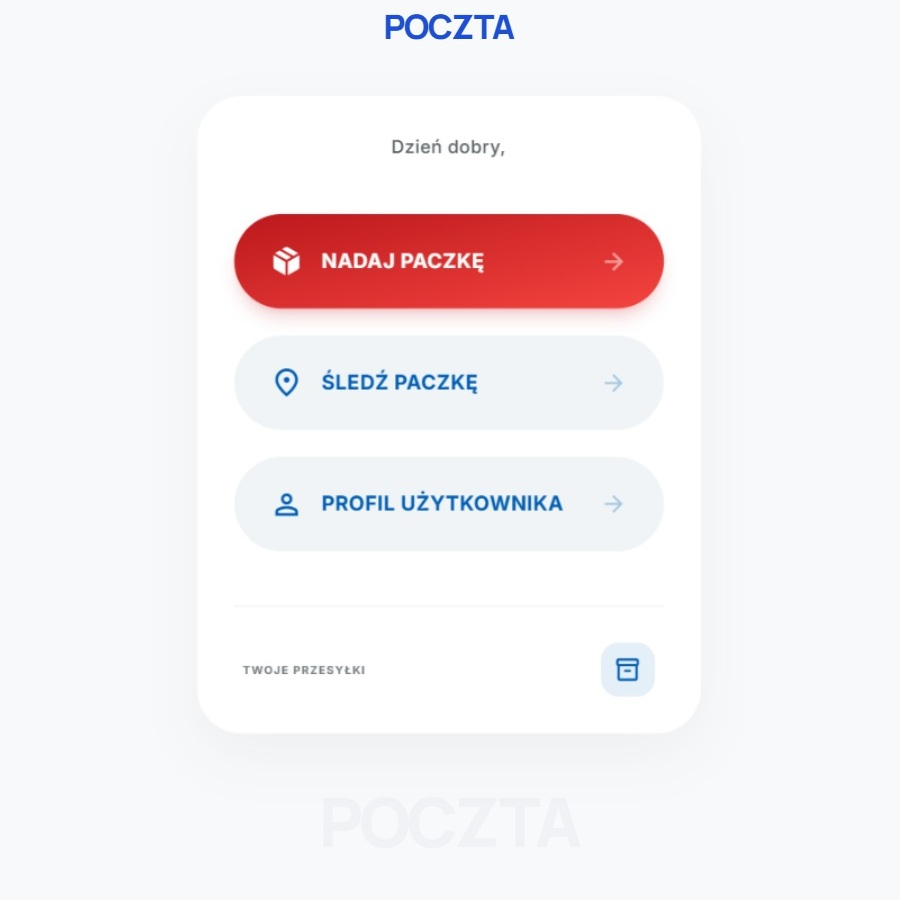
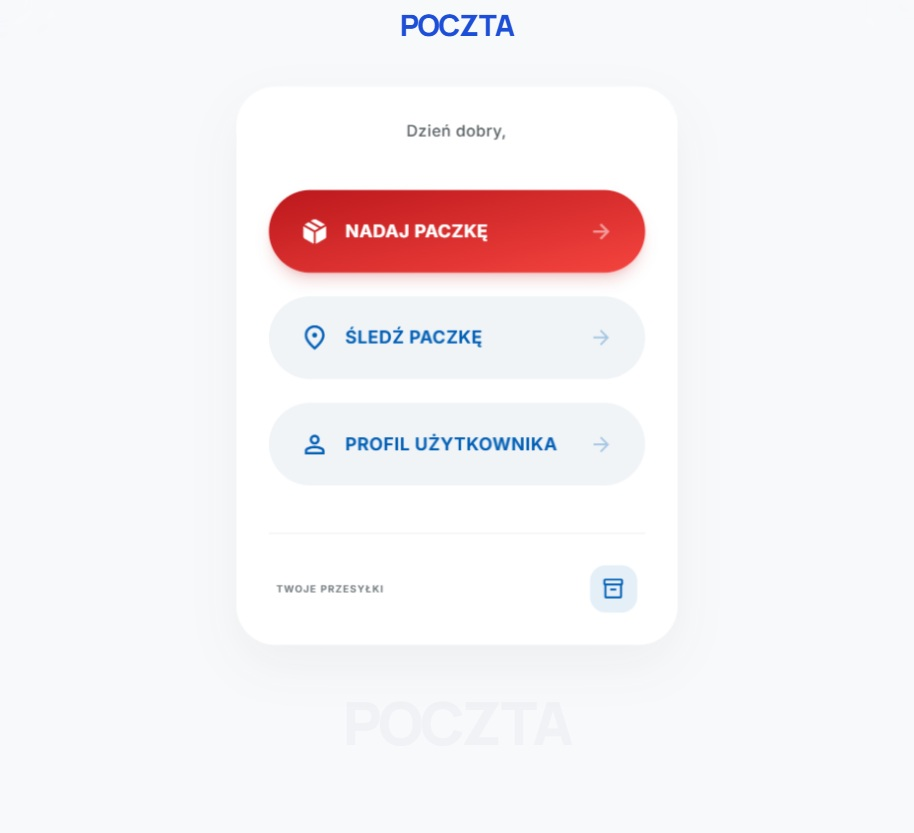
gui: logowanie,rejestracja i menu główne

diff --git a/src/GUI/MenuWindow.java b/src/GUI/MenuWindow.java
@@ -15,24 +15,65 @@ public class MenuWindow extends JFrame{
     setResizable(false);
 
         ImageIcon tlo =new ImageIcon("src/resources/menu.jpg");
+        ImageIcon nadaj =new ImageIcon("src/resources/nadaj2.jpg");
+        ImageIcon sledz =new ImageIcon("src/resources/sledz2.jpg");
+        ImageIcon profil =new ImageIcon("src/resources/profil2.jpg");
+        ImageIcon maly =new ImageIcon("src/resources/maly2.jpg");
+
         JLabel background = new JLabel(tlo);
-        background.setBounds(-50,0,900,900);
+        JLabel sendPackButton2 = new JLabel(nadaj);
+        JLabel followButton2 = new JLabel(sledz);
+        JLabel profileButton2 = new JLabel(profil);
+        JLabel packsButton2 = new JLabel(maly);
+
+
+
+
+
+        background.setBounds(0, 0, 800, 820);
         background.setLayout(null);
         background.setVisible(true);
-        background.addMouseListener(new java.awt.event.MouseAdapter() {  // <----- listener
+        background.addMouseListener(new java.awt.event.MouseAdapter() {
             public void mouseClicked(java.awt.event.MouseEvent e) {
                 System.out.println("X: " + e.getX() + " Y: " + e.getY());
             }
         });
         add(background);
-//przycisk wyslij paczke
+
+        background.add(sendPackButton2);
+        background.add(followButton2);
+        background.add(profileButton2);
+        background.add(packsButton2);
+
+        sendPackButton2.setVisible(false);
+        followButton2.setVisible(false);
+        profileButton2.setVisible(false);
+        packsButton2.setVisible(false);
+
+
+
+
+        //przycisk wyslij paczke
         JButton sendPackButton = new JButton("");
-        sendPackButton.setBounds(235, 215, 430, 95);
+        sendPackButton.setBounds(212, 184, 377, 84);
+        sendPackButton2.setBounds(193, 177, 410, 100);
+        sendPackButton.addMouseListener(new java.awt.event.MouseAdapter() {
+            public void mouseEntered(java.awt.event.MouseEvent evt) {
+                sendPackButton.setOpaque(false);
+                sendPackButton2.setVisible(true);
+            }
+
+            public void mouseExited(java.awt.event.MouseEvent evt) {
+                sendPackButton2.setVisible(false);
+            }
+        });
+
         sendPackButton.addActionListener(e -> {
             System.out.println("Kliknieto nadaj");
             SendPack.setVisible(true);
 
         });
+
         sendPackButton.setBorder(null);
         sendPackButton.setOpaque(false);
         background.add(sendPackButton);
@@ -41,7 +82,18 @@ public class MenuWindow extends JFrame{
 
         //przycisk sledz
         JButton followButton = new JButton("");
-        followButton.setBounds(235, 337, 430, 95);
+        followButton.setBounds(212, 291, 377, 84);
+        followButton2.setBounds(193, 284, 410, 100);
+        followButton.addMouseListener(new java.awt.event.MouseAdapter() {
+            public void mouseEntered(java.awt.event.MouseEvent evt) {
+                followButton.setOpaque(false);
+                followButton2.setVisible(true);
+            }
+
+            public void mouseExited(java.awt.event.MouseEvent evt) {
+                followButton2.setVisible(false);
+            }
+        });
         followButton.addActionListener(e -> {
             System.out.println("Kliknieto sledz");
             follow.setVisible(true);
@@ -55,7 +107,18 @@ public class MenuWindow extends JFrame{
 
         //przycisk profil uzytkownika
         JButton profileButton = new JButton("");
-        profileButton.setBounds(235, 459, 430, 95);
+        profileButton.setBounds(212, 398, 377, 84);
+        profileButton2.setBounds(193, 390, 410, 100);
+        profileButton.addMouseListener(new java.awt.event.MouseAdapter() {
+            public void mouseEntered(java.awt.event.MouseEvent evt) {
+                profileButton.setOpaque(false);
+                profileButton2.setVisible(true);
+            }
+
+            public void mouseExited(java.awt.event.MouseEvent evt) {
+                profileButton2.setVisible(false);
+            }
+        });
         profileButton.addActionListener(e -> {
             System.out.println("Kliknieto profil uzytkownika");
             UserProfile.setVisible(true);
@@ -68,7 +131,18 @@ public class MenuWindow extends JFrame{
         profileButton.setFocusPainted(false);
 
         JButton packsButton = new JButton("");
-        packsButton.setBounds(600, 645, 55, 50);
+        packsButton.setBounds(533, 559, 47, 50);
+        packsButton2.setBounds(530, 559, 54, 50);
+        packsButton.addMouseListener(new java.awt.event.MouseAdapter() {
+            public void mouseEntered(java.awt.event.MouseEvent evt) {
+                packsButton.setOpaque(false);
+                packsButton2.setVisible(true);
+            }
+
+            public void mouseExited(java.awt.event.MouseEvent evt) {
+                packsButton2.setVisible(false);
+            }
+        });
         packsButton.addActionListener(e -> {
             System.out.println("Kliknieto paczki");
         });

diff --git a/src/GUI/LoginWindow.java b/src/GUI/LoginWindow.java
@@ -31,7 +31,7 @@ public class LoginWindow extends JFrame {
         add(background);
 //tu
         JLabel password2 = new JLabel(pass2);
-        password2.setBounds(238, 425, 319, 75);
+        password2.setBounds(238, 443, 319, 75);
         password2.setLayout(null);
         password2.setVisible(false);
         background.add(password2);
@@ -64,7 +64,7 @@ public class LoginWindow extends JFrame {
         background.add(passwordField);
 
         JPasswordField passwordField2 = new JPasswordField();
-        passwordField2.setBounds(277, 462, 300, 20);
+        passwordField2.setBounds(277, 479, 300, 20);
         passwordField2.setBorder(null);
         passwordField2.setOpaque(false);
         passwordField2.setVisible(false);

diff --git a/src/Main.java b/src/Main.java
@@ -32,10 +32,10 @@ public class Main {
     public static void main(String[] args) {
 
 //menu();
-LoginWindow okno = new LoginWindow();
-okno.setVisible(true);
-//MenuWindow menu = new MenuWindow();
-//menu.setVisible(true);
+//LoginWindow okno = new LoginWindow();
+//okno.setVisible(true);
+MenuWindow menu = new MenuWindow();
+menu.setVisible(true);
 //FollowPackWindow follow = new FollowPackWindow();
 //follow.setVisible(true);
 
